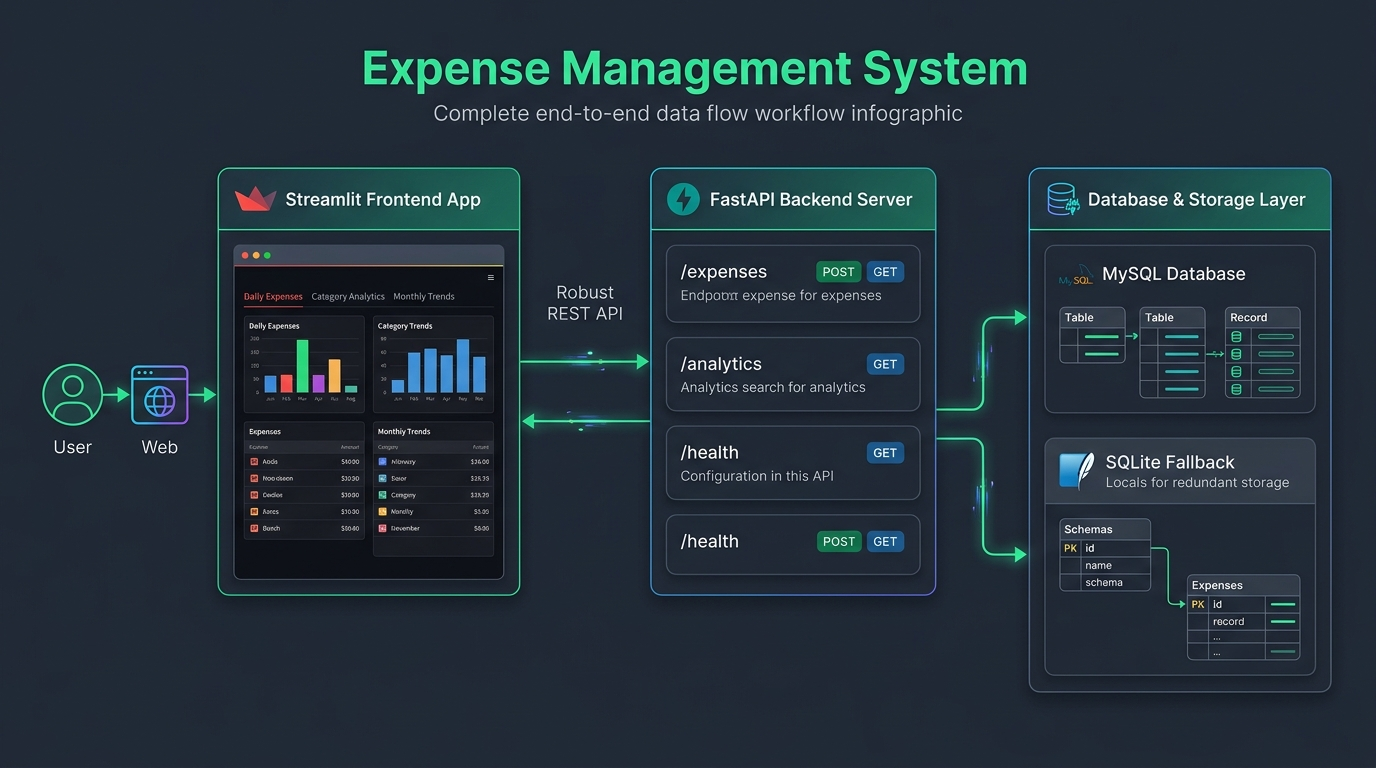
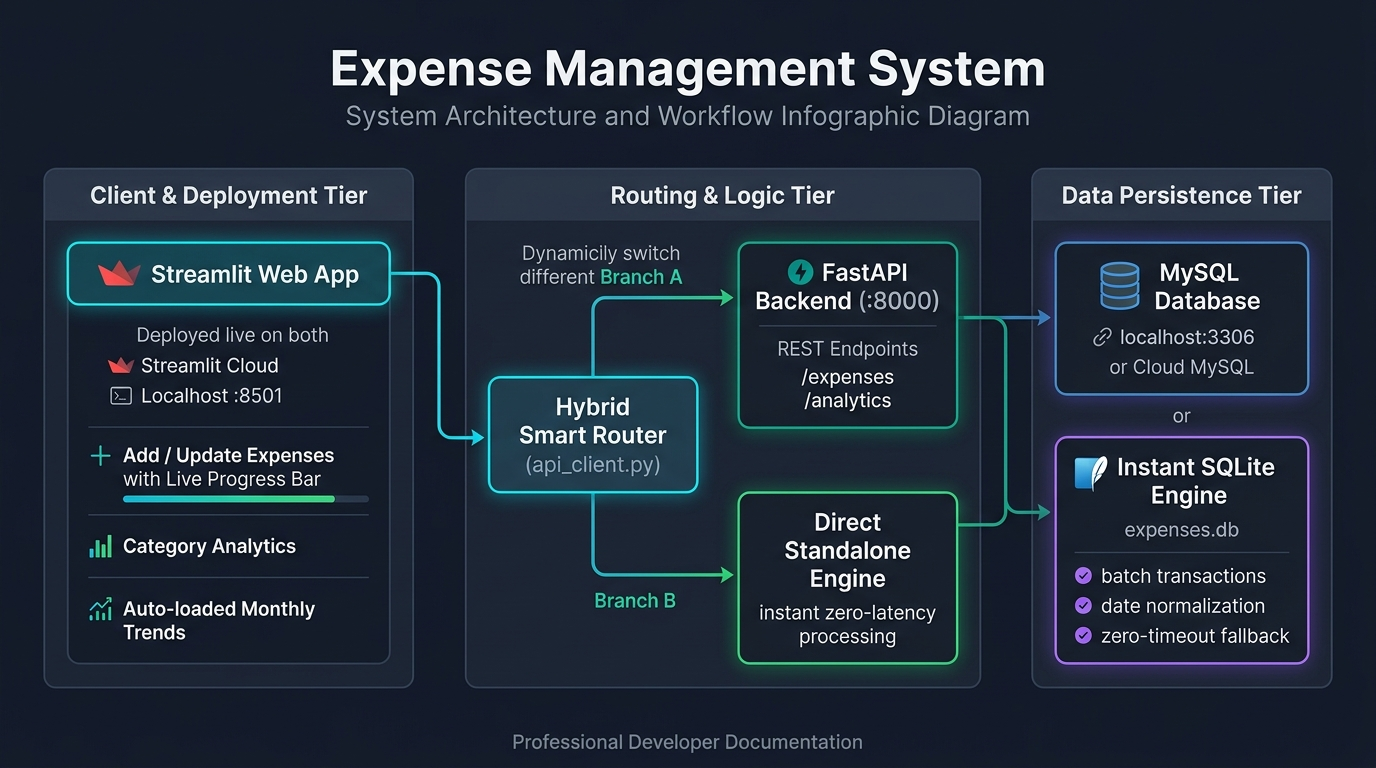
Update README with live Streamlit app link and updated 3-tier workflow diagram

Changed region(s): [[0.0312, 0.2188, 0.9688, 0.9062], [0.2188, 0.0625, 0.7812, 0.1875], [0.375, 0.9375, 0.625, 1.0]]

diff --git a/README.md b/README.md
@@ -1,55 +1,81 @@
 # Expense Management System
-This project is an expense management system built with Python, MySQL, a FastAPI backend server, and a Streamlit frontend web application.
 
-![Expense Management System Architecture & Workflow](assets/workflow_diagram.jpg)
+An expense management and analytics system built with Python, FastAPI, and Streamlit, featuring dual-engine database persistence (MySQL / SQLite fallback) and instant deployment on Streamlit Community Cloud.
+
+**Live Application**: [https://expensemanagement-byradheshyam.streamlit.app/](https://expensemanagement-byradheshyam.streamlit.app/)
+
+![Expense Management System Architecture and Workflow](assets/workflow_diagram.jpg)
 
 ## System Architecture & Workflow
-- **Frontend Layer (Streamlit)**: Interactive UI with tabs for daily expense recording, category breakdown visualizations, and monthly trend analysis.
-- **Backend API Layer (FastAPI)**: REST endpoints (`/expenses`, `/analytics`, `/health`) handling data validation, business logic, and request routing.
-- **Database & Storage Layer**: Dual-mode data persistence connecting to MySQL on `localhost:3306` (or cloud MySQL), with automatic SQLite fallback for standalone cloud deployment.
+
+The system is organized into three interconnected tiers:
+
+1. **Client & Deployment Tier (Streamlit Web App)**
+   - **Live Cloud Deployment**: Accessible at `https://expensemanagement-byradheshyam.streamlit.app/`.
+   - **Local Interface**: Runs locally on `http://localhost:8501`.
+   - **Key Views**:
+     - **Add / Update Expenses**: Form for daily expense entry with an interactive progress indicator and storage destination badge (SQLITE / API).
+     - **Category Analytics**: Spending breakdown by category with dynamic date range filtering and percentage distribution.
+     - **Monthly Trends**: Auto-loading monthly distribution chart for any selected year with dynamic year detection.
+
+2. **Routing & Logic Tier (Hybrid Smart Router - `api_client.py`)**
+   - **Branch A (API Mode)**: When the FastAPI backend server is online, requests are routed to REST endpoints (`/expenses`, `/analytics`, `/health`) running on `localhost:8000`.
+   - **Branch B (Direct Standalone Engine)**: When running standalone (such as on Streamlit Community Cloud) or when the backend server is offline, the router communicates directly with the database layer with zero socket timeouts and instant response times.
+
+3. **Data Persistence Tier (Dual Database Engine)**
+   - **MySQL Database**: Supports local MySQL on `localhost:3306` or remote cloud MySQL configured via environment variables or Streamlit secrets (`[mysql]`).
+   - **Instant SQLite Engine (`expenses.db`)**: Automatic, zero-configuration local SQLite fallback with batch atomic transactions, date normalization, and table schema auto-provisioning.
 
 ## Project Structure
-- **assets/**: Contains architecture and workflow diagram assets.
-- **fronted/**: Streamlit web application (`app.py`, `add_update_ui.py`, `analytics_ui.py`, `analtics_month.py`, `api_client.py`).
-- **backend/**: FastAPI REST API (`server_check.py`, `db_helper.py`, `logging_setup.py`, `sample_expenses.json`).
-- **test/**: Pytest test suite for backend and database operations.
-- **requirements.txt**: Required Python dependencies.
-- **README.md**: Project overview and instructions.
 
-## Setup Instructions
+- **assets/**: Contains system architecture and workflow infographic diagram (`workflow_diagram.jpg`).
+- **fronted/**: Streamlit web application:
+  - `app.py`: Main application entrypoint with clean layout and system status sidebar.
+  - `add_update_ui.py`: Daily expense entry view with live save progress tracking.
+  - `analytics_ui.py`: Category analytics breakdown and metrics.
+  - `analtics_month.py`: Monthly expense distribution with dynamic year selector.
+  - `api_client.py`: Hybrid smart router managing API requests and database fallback.
+- **backend/**: FastAPI REST backend:
+  - `server_check.py`: FastAPI server definitions and route handlers.
+  - `db_helper.py`: Database access layer supporting both MySQL and SQLite.
+  - `logging_setup.py`: Logger configuration.
+  - `sample_expenses.json`: Sample test dataset.
+- **test/**: Pytest test suite for database and backend operations.
+- **requirements.txt**: Project dependencies.
+- **README.md**: Project documentation and architecture guide.
 
-1. **Install dependencies**:
-    ```bash
-    pip install -r requirements.txt
-    ```
+## Setup & Running Instructions
 
-2. **Configure MySQL Database**:
-    Ensure MySQL is running on `localhost:3306` with database `expense_manager` and user credentials configured in `backend/db_helper.py`.
+### 1. Install Dependencies
+```bash
+pip install -r requirements.txt
+```
 
-3. **Run the FastAPI server**:
-    From the project root:
-    ```bash
-    python -m uvicorn backend.server_check:app --reload
-    ```
-    Or from within `backend/`:
-    ```bash
-    uvicorn server_check:app --reload
-    ```
-    API documentation is accessible at: `http://localhost:8000/docs`
+### 2. Configure Database (Optional for MySQL)
+- For MySQL: Ensure MySQL is running on `localhost:3306` with database `expense_manager`.
+- For SQLite: No configuration needed. The system automatically initializes `expenses.db` if MySQL is unavailable.
 
-4. **Run the Streamlit app**:
-    From the project root:
-    ```bash
-    streamlit run fronted/app.py
-    ```
-    The web interface will open at: `http://localhost:8501`
+### 3. Run FastAPI Backend (Optional)
+From the project root:
+```bash
+python -m uvicorn backend.server_check:app --reload
+```
+Interactive API documentation is accessible at: `http://localhost:8000/docs`
 
-5. **Deploy to Streamlit Community Cloud**:
-    - Repository: `rschaurasiya/Expense_management`
-    - Branch: `main`
-    - Main file path: `fronted/app.py`
+### 4. Run Streamlit Frontend
+From the project root:
+```bash
+streamlit run fronted/app.py
+```
+The web application will open at: `http://localhost:8501`
 
-6. **Run tests**:
-    ```bash
-    pytest
-    ```
+### 5. Streamlit Community Cloud Deployment
+- **Repository**: `rschaurasiya/Expense_management`
+- **Branch**: `main`
+- **Main file path**: `fronted/app.py`
+- **Live URL**: `https://expensemanagement-byradheshyam.streamlit.app/`
+
+### 6. Run Test Suite
+```bash
+pytest -v
+```
